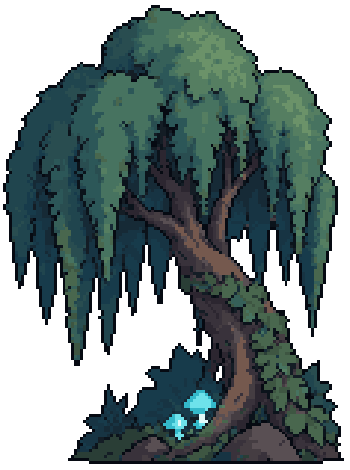
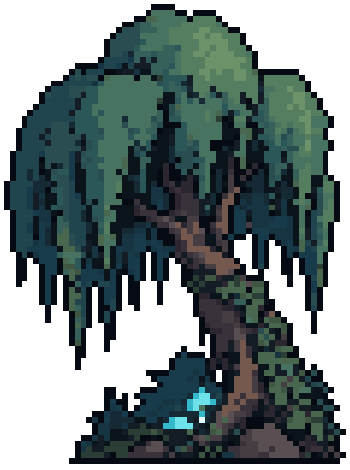
Fonds, ciel et gros arbres du fond : pixels encore plus gros (8 px d'ecran au lieu de 4)

diff --git a/src/data/pixel_fixed.js b/src/data/pixel_fixed.js
@@ -3,14 +3,14 @@
 // BootScene les affiche sans lissage (NEAREST) ; import_codex_assets.py ne
 // les réécrit pas. `f` : px de l'image = 1 pixel dessiné ; `set` : le lot.
 const PIXEL_FIXED = {
-  "assets/decors/arbres_frames/arbre_0.png": {"f":2.96,"set":"files:assets/decors/arbres_frames/arbre_0.png"},
-  "assets/decors/arbres_frames/arbre_1.png": {"f":2.96,"set":"files:assets/decors/arbres_frames/arbre_1.png"},
-  "assets/decors/arbres_frames/arbre_2.png": {"f":2.96,"set":"files:assets/decors/arbres_frames/arbre_2.png"},
-  "assets/decors/arbres_frames/arbre_3.png": {"f":2.96,"set":"files:assets/decors/arbres_frames/arbre_3.png"},
-  "assets/decors/arbres_frames/arbre_4.png": {"f":2.96,"set":"files:assets/decors/arbres_frames/arbre_4.png"},
-  "assets/decors/arbres_frames/arbre_5.png": {"f":2.96,"set":"files:assets/decors/arbres_frames/arbre_5.png"},
-  "assets/decors/arbres_frames/arbre_6.png": {"f":2.96,"set":"files:assets/decors/arbres_frames/arbre_6.png"},
-  "assets/decors/arbres_frames/arbre_7.png": {"f":2.96,"set":"files:assets/decors/arbres_frames/arbre_7.png"},
+  "assets/decors/arbres_frames/arbre_0.png": {"f":5.9,"set":"files:assets/decors/arbres_frames/arbre_0.png"},
+  "assets/decors/arbres_frames/arbre_1.png": {"f":5.9,"set":"files:assets/decors/arbres_frames/arbre_1.png"},
+  "assets/decors/arbres_frames/arbre_2.png": {"f":5.9,"set":"files:assets/decors/arbres_frames/arbre_2.png"},
+  "assets/decors/arbres_frames/arbre_3.png": {"f":5.9,"set":"files:assets/decors/arbres_frames/arbre_3.png"},
+  "assets/decors/arbres_frames/arbre_4.png": {"f":5.9,"set":"files:assets/decors/arbres_frames/arbre_4.png"},
+  "assets/decors/arbres_frames/arbre_5.png": {"f":5.9,"set":"files:assets/decors/arbres_frames/arbre_5.png"},
+  "assets/decors/arbres_frames/arbre_6.png": {"f":5.9,"set":"files:assets/decors/arbres_frames/arbre_6.png"},
+  "assets/decors/arbres_frames/arbre_7.png": {"f":5.9,"set":"files:assets/decors/arbres_frames/arbre_7.png"},
   "assets/decors/deco_item_frames/bosquet/bosquet_antler_totem.png": {"f":3.64,"set":"files:assets/decors/deco_item_frames/bosquet/bosquet_antler_totem.png"},
   "assets/decors/deco_item_frames/bosquet/bosquet_arbre.png": {"f":2.35,"set":"files:assets/decors/deco_item_frames/bosquet/bosquet_arbre.png"},
   "assets/decors/deco_item_frames/bosquet/bosquet_arbre_2.png": {"f":2.35,"set":"files:assets/decors/deco_item_frames/bosquet/bosquet_arbre_2.png"},
@@ -140,21 +140,21 @@ const PIXEL_FIXED = {
   "assets/decors/elements/decor_touffe_mousse_penchee.png": {"f":11.11,"set":"files:assets/decors/elements/decor_touffe_mousse_penchee.png"},
   "assets/decors/elements/decor_touffe_mousse_petite.png": {"f":11.11,"set":"files:assets/decors/elements/decor_touffe_mousse_petite.png"},
   "assets/decors/elements/decor_trou_effondre.png": {"f":14.29,"set":"files:assets/decors/elements/decor_trou_effondre.png"},
-  "assets/decors/fonds/couche_ciel_jour.png": {"f":5.6,"set":"files:assets/decors/fonds/couche_ciel_jour.png"},
-  "assets/decors/fonds/couche_iles_lointaines.png": {"f":5.6,"set":"files:assets/decors/fonds/couche_iles_lointaines.png"},
-  "assets/decors/fonds/couche_nuage_0.png": {"f":5.6,"set":"files:assets/decors/fonds/couche_nuage_0.png"},
-  "assets/decors/fonds/couche_nuage_1.png": {"f":5.6,"set":"files:assets/decors/fonds/couche_nuage_1.png"},
-  "assets/decors/fonds/couche_nuage_2.png": {"f":5.6,"set":"files:assets/decors/fonds/couche_nuage_2.png"},
-  "assets/decors/fonds/couche_nuage_3.png": {"f":5.6,"set":"files:assets/decors/fonds/couche_nuage_3.png"},
-  "assets/decors/fonds/couche_nuage_4.png": {"f":5.6,"set":"files:assets/decors/fonds/couche_nuage_4.png"},
-  "assets/decors/fonds/fond_arene_ghilt.png": {"f":5.6,"set":"files:assets/decors/fonds/fond_arene_ghilt.png"},
-  "assets/decors/fonds/fond_bosquet.png": {"f":5.6,"set":"files:assets/decors/fonds/fond_bosquet.png"},
-  "assets/decors/fonds/fond_foret_corrompue.png": {"f":5.6,"set":"files:assets/decors/fonds/fond_foret_corrompue.png"},
-  "assets/decors/fonds/fond_foret_flottante.png": {"f":5.6,"set":"files:assets/decors/fonds/fond_foret_flottante.png"},
-  "assets/decors/fonds/fond_foret_sombre.png": {"f":5.6,"set":"files:assets/decors/fonds/fond_foret_sombre.png"},
-  "assets/decors/fonds/fond_grand_arbre.png": {"f":5.6,"set":"files:assets/decors/fonds/fond_grand_arbre.png"},
-  "assets/decors/fonds/fond_monde_spirituel.png": {"f":5.6,"set":"files:assets/decors/fonds/fond_monde_spirituel.png"},
-  "assets/decors/fonds/fond_trou_sombre.png": {"f":5.6,"set":"files:assets/decors/fonds/fond_trou_sombre.png"},
+  "assets/decors/fonds/couche_ciel_jour.png": {"f":11.2,"set":"files:assets/decors/fonds/couche_ciel_jour.png"},
+  "assets/decors/fonds/couche_iles_lointaines.png": {"f":11.2,"set":"files:assets/decors/fonds/couche_iles_lointaines.png"},
+  "assets/decors/fonds/couche_nuage_0.png": {"f":11.2,"set":"files:assets/decors/fonds/couche_nuage_0.png"},
+  "assets/decors/fonds/couche_nuage_1.png": {"f":11.2,"set":"files:assets/decors/fonds/couche_nuage_1.png"},
+  "assets/decors/fonds/couche_nuage_2.png": {"f":11.2,"set":"files:assets/decors/fonds/couche_nuage_2.png"},
+  "assets/decors/fonds/couche_nuage_3.png": {"f":11.2,"set":"files:assets/decors/fonds/couche_nuage_3.png"},
+  "assets/decors/fonds/couche_nuage_4.png": {"f":11.2,"set":"files:assets/decors/fonds/couche_nuage_4.png"},
+  "assets/decors/fonds/fond_arene_ghilt.png": {"f":11.2,"set":"files:assets/decors/fonds/fond_arene_ghilt.png"},
+  "assets/decors/fonds/fond_bosquet.png": {"f":11.2,"set":"files:assets/decors/fonds/fond_bosquet.png"},
+  "assets/decors/fonds/fond_foret_corrompue.png": {"f":11.2,"set":"files:assets/decors/fonds/fond_foret_corrompue.png"},
+  "assets/decors/fonds/fond_foret_flottante.png": {"f":11.2,"set":"files:assets/decors/fonds/fond_foret_flottante.png"},
+  "assets/decors/fonds/fond_foret_sombre.png": {"f":11.2,"set":"files:assets/decors/fonds/fond_foret_sombre.png"},
+  "assets/decors/fonds/fond_grand_arbre.png": {"f":11.2,"set":"files:assets/decors/fonds/fond_grand_arbre.png"},
+  "assets/decors/fonds/fond_monde_spirituel.png": {"f":11.2,"set":"files:assets/decors/fonds/fond_monde_spirituel.png"},
+  "assets/decors/fonds/fond_trou_sombre.png": {"f":11.2,"set":"files:assets/decors/fonds/fond_trou_sombre.png"},
   "assets/decors/plantes_frames/bplante_0.png": {"f":6.67,"set":"files:assets/decors/plantes_frames/bplante_0.png"},
   "assets/decors/plantes_frames/bplante_1.png": {"f":6.67,"set":"files:assets/decors/plantes_frames/bplante_1.png"},
   "assets/decors/plantes_frames/bplante_10.png": {"f":6.67,"set":"files:assets/decors/plantes_frames/bplante_10.png"},

diff --git a/tools/pixelfix_decors.py b/tools/pixelfix_decors.py
@@ -28,8 +28,8 @@ FIXED = [  # (motif, échelle d'affichage)
     ('assets/decors/plantes_frames/bplante_*.png', 0.3),
     ('assets/decors/plantes_frames/hplante_*.png', 0.6),
     ('assets/decors/sous_bois_frames/*.png', 0.45),
-    # gros arbres du fond : pixels plus gros, 4 px d'écran (demande du 2026-11-11) -> échelle comptée à moitié
-    ('assets/decors/arbres_frames/*.png', 1.35 / 2),
+    # gros arbres du fond : pixels bien plus gros, 8 px d'écran (demandé deux fois le 2026-11-11) -> échelle comptée au quart
+    ('assets/decors/arbres_frames/*.png', 1.35 / 4),
 ]
 
 

diff --git a/CLAUDE.md b/CLAUDE.md
@@ -122,9 +122,9 @@ ligne de marche du jeu par défaut. Hauteur de marche : `448 + GROUND_STAND_SINK
   décors posés de tous les biomes, les éléments de `assets/decors/elements/`, les plantes, le
   sous-bois et les arbres, même recette que le grand arbre (une image par lot, grain de 2 px
   d'écran selon l'échelle d'affichage, 24 couleurs, contour propre). **Fonds et gros arbres du
-  fond** : pixels plus gros, 4 px d'écran (fonds `fond_*.png` et ciel : `--tileable --factor 5.6
-  --colors 32` ; îles lointaines et nuages : `--factor 5.6 --colors 24` ; arbres :
-  `--factor 2.96`, déjà réglé ainsi dans `pixelfix_decors.py`).
+  fond** : gros pixels, 8 px d'écran (4 px jugé encore trop fin) (fonds `fond_*.png` et ciel : `--tileable --factor 11.2
+  --colors 32` ; îles lointaines et nuages : `--factor 11.2 --colors 24` ; arbres :
+  `--factor 5.9`, déjà réglé ainsi dans `pixelfix_decors.py`).
   Brumes, nappes, soleil et vignette : laissés tels quels (dégradés transparents). Non faits :
   formes d'Agarica (loup, singe, aigle, pieuvre, ours, papillon), effets, objets, interface.
   **Êtres vivants** (PNJ, ennemis, boss, animaux, Xara, crapaud, corbeau) : au grain d'Agarica,
